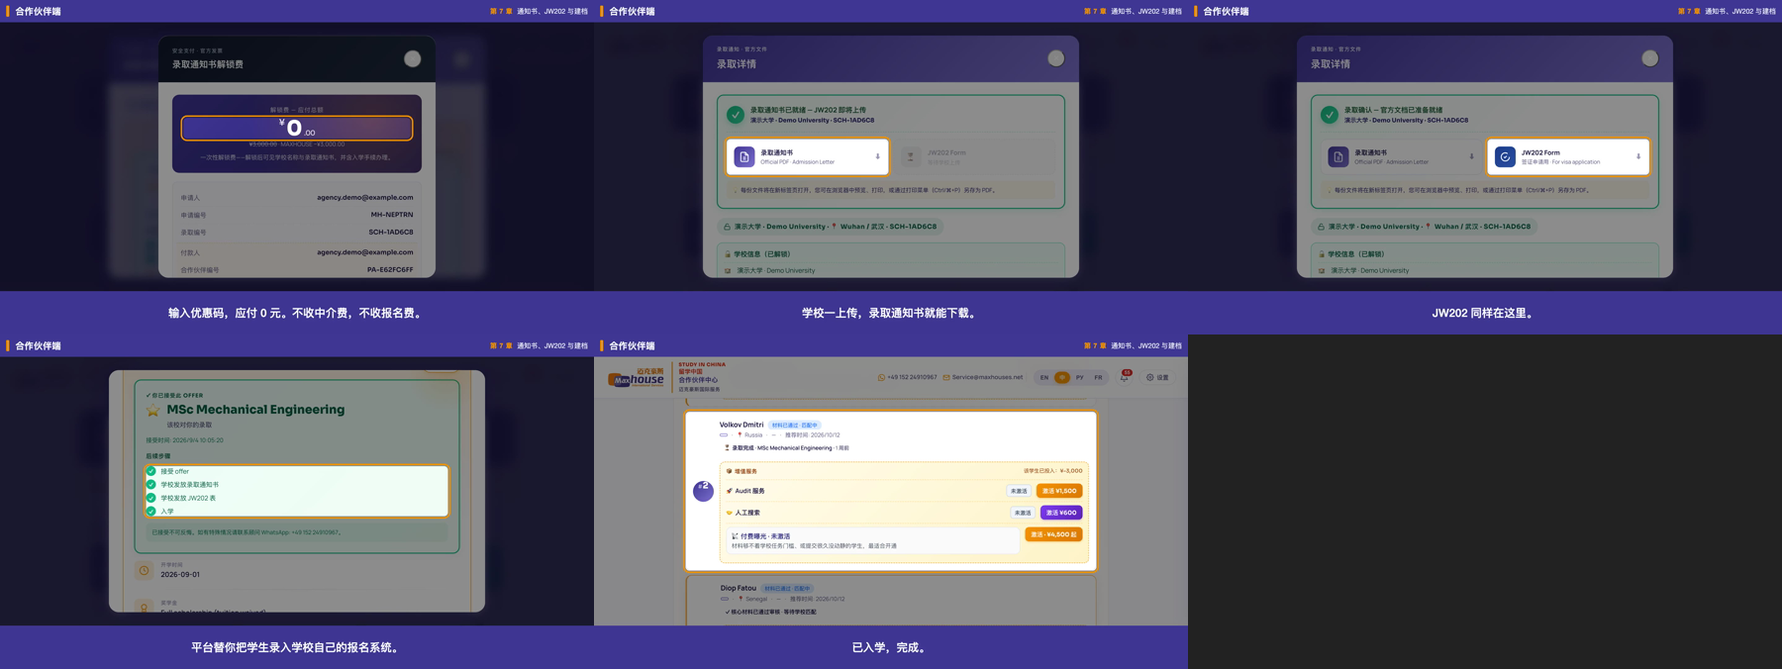
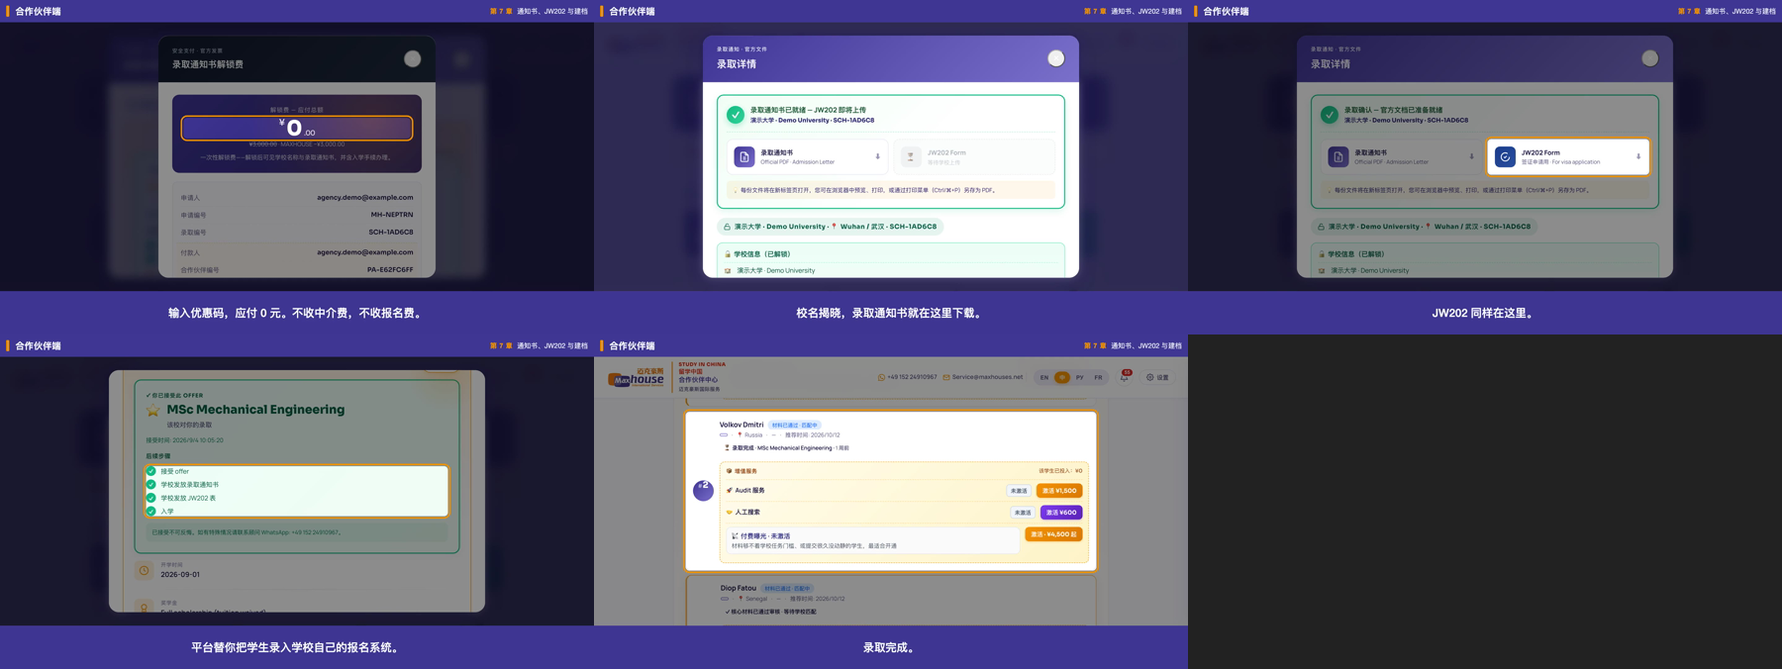
JOB-GP1 trip31: ch7 工作台章 v185 定版重录(review1 §二.3 7-1两段高亮 + §三.5 7-4字幕对账 + §一)。四语 ch7 联络表(land+port)+4 REVIEW(§十一对账)+决定账+PROGRESS。7-4 留业主已知产品问题:卡徽章 s.status 读废弃列 students.stage 恒NULL→对已入学生恒显蓝 matching(未改产品码,§三.5兜底)。verify 17/17 PASS。主仓库 b7a4ad4 未推。

Changed region(s): [[0.3111, 0.0311, 0.6844, 0.497], [0.4667, 0.963, 0.5289, 0.9941], [0.4044, 0.7145, 0.4356, 0.7456]]

diff --git a/JOB-GP1-03-PROGRESS.md b/JOB-GP1-03-PROGRESS.md
@@ -1,4 +1,18 @@
-最后一趟：2026-10-12 第30趟 返工：**做了**＝ch3 工作台章（state 章）v185 底座四语横竖定版重录，一并落 review1 §三.8（3-1/3-8 节奏）+§四（草稿残留复核）+§一（工作台 v185）。**§三.8 节奏＝录制层实现「后期剪掉等待的那几秒」**：rec.mjs 加 `preOff` 开关（把导航/加载/真提交放镜外 offCamera 跑、不计入字幕窗口帧，等结果落定才开录）。3-1 旧病＝点完按钮后镜尾 openWizard 切走、高亮环落向导空白处→删 3-1 openWizard、移到 3-2 offCamera pre（3-1 全窗口框按钮·亲验尾帧仍框按钮；3-2 开录即向导 step1 高亮 Semester）。3-8 旧病「app_no 落段尾」（trip12 记）→真 submit+等 app_no 全放 offCamera，开录 app_no 已在画面（亲验首帧 t0 即显 MH-xxxxxx）。**§四**＝每变体前后跑 st-ch3-cleanup 还原 pt-01 基线草稿（Ayesha Malik/step2）+真 submit 后即 st-ch3-mark-test 标 is_test；8 变体=8 次真 submit（cleanup-before-each 保配额恒 9→10 成功），verify #17 开工+收工 PASS。**§一**＝3-9 卡「Invested ¥0」无负数（缺陷1 销账）。8 片全 res OK+audio yes+no @gmail+9镜×8 hl 全 resolve。时长 land/port：EN60.23/60.25·ZH70.52/70.46·RU70.69/70.55·FR69.59/69.51s。亲验 en-land(3-1尾/3-2/3-8/3-9)+ru-land(3-5/3-8/3-9)原始帧：§三.8 三镜达标、¥0 无负数、AI 预检琥珀条四语本地化(产品渲染)、演示生 Demo Aisha 无真 PII、护照 DE1234567 样号、邮箱掩码、无 beta、页头平台 WhatsApp/Email 不遮。ch3 开工+收工 verify **17/17 PASS 0 FAIL**，baseline 守住（scoped 复位，无全量 rebuild）。v1 成片在 _v1/ 留底、dist 覆盖 v2。**全片 bookend/film/trailer 本趟不重拼**（待全部工作台章完后统一拼）。主仓库点名提交 JOB-GP1 不推；四语 ch3 联络表(land+port)+4 REVIEW+决定账+PROGRESS 推 mh-jobs。**下趟**＝下一含工作台章定版重录（ch7 7-4/ch8 横幅/ch5 5-1·5-4 两态/ch10/OP-3·4·5 快剪），一趟一章；全部完后四语过十一项重审+重拼全片→写 SUMMARY-GP1。**GP-1 未收官，勿据旧『收官』停工。**
+最后一趟：2026-10-12 第31趟 返工：**做了**＝ch7 工作台章（state 章·最复杂章）v185 四语横竖定版重录，一并落 review1 §二.3 + §三.5 + §一。**§二.3（7-1 两段高亮）**：给 rec.mjs follow() 加 `hl2`（前半 dwell 框 hl、后半切 hl2），7-1 先框真揭晓校名条 `.admission-id-tag--unlocked`（🔓 Demo University·演示大学·Wuhan/武汉·SCH-1AD6C8）、再框下载钮 `.admission-doc-btn-letter`——完成 trip21 明文「待 ch7 一并做」的两段高亮；7-1 字幕/配音 trip21 已改，本趟只改高亮。亲验 en-land phase1(f00032)/phase2(f00037) 原始帧达标，8 录屏 7-1 hl+hl2 全 resolve。**§三.5（7-4 字幕对账）**：读源实证病根＝卡徽章 `s.status=r.stage||'pending'`(L7311) 读废弃列 students.stage（恒 NULL，与缺陷2/漏斗同根）→ 恒 pending、gate_open 覆盖成蓝「Documents approved·matching」，产品**从不在列表卡徽章真显 enrolled**（已知产品问题，trip28 已记、留 SUMMARY）；但卡**状态行** `.partner-student-issue`（源 cloudTl.completed）稳定真显「⏳ Admission complete」＝review1 §三.5 观察——走 §三.5 兜底，7-4 字幕由「Enrolled. Done.」改**与状态行逐字一致**：en「Admission complete.」/ zh「录取完成。」/ ru「Зачисление завершено.」/ fr「Admission terminée.」，四语重配音。亲验四语 7-4 真帧：产品**真本地化**渲染状态行、与字幕**逐字对账**（ru/fr 非英文回退）。未改产品码。**§一**：7-4 卡「Invested ¥0」无负数（v185，缺陷1 销账）。state 章安全闸：先空跑状态往返证复位可靠（dirty→reset→verify 17/17）；每片前 st-pt07-pay-cleanup（每片 7-0 真付 ¥0 写 letter_paid_at）+ 末 st-pt0708-reset-cleanup。8 片全 res OK+audio yes+no @gmail+5 镜 hl 全 resolve（7-1 含 hl2）。时长 land en44.66/zh44.00/ru43.29/fr43.60·port en43.29/zh43.24/ru43.23/fr43.52s。开工+收工 verify **17/17 PASS 0 FAIL**，baseline 守住（scoped 复位）。ch7 v1 早在 _v1/ 留底、dist 覆盖 v2。**全片不重拼**（待全部工作台章完后统一拼）。主仓库点名提交 JOB-GP1（b7a4ad4）不推；四语 ch7 联络表(land+port)+4 REVIEW+决定账+PROGRESS 推 mh-jobs。**下趟**＝下一含工作台章定版重录（ch8 §三.7 横幅 scoped 撤待审提额 / ch5 5-1+5-4 两态 / ch9 v185 背景重录 / ch10 / OP-3·4·5 开场快剪），一趟一章；全部完后四语过十一项重审+重拼全片→写 SUMMARY-GP1。**GP-1 未收官，勿据旧『收官』停工。**
+
+# 第 31 趟（2026-10-12 Mac mini 无人值守）· ch7 工作台章定版重录 v185（review1 §二.3 + §三.5 + §一）
+- **接手核对**：git status + 读齐 PROGRESS/loop-tail/RULING-b-review1/-c-rework/-d-funnel/-e-v185-live/DECISIONS/storyboard/QUEUE。trip30 ch3 已定版，下趟＝ch7。开工即改首行「返工进行中」，开工 verify **17/17 PASS**。
+- **选题**：ch7 压着三处未结 review1 项——§二.3（7-1 两段高亮，trip21 明文待 ch7）+ §三.5（7-4 字幕 undone）+ §一（7-4 漏斗 v185）。
+- **取证（只读探针，不写库）**：`_probe-ch7-dom.mjs`（揭晓校名条/下载钮选择器）、`_probe-ch7-74-stable.mjs`（7-4 卡稳定态真显 ⏳ Admission complete）、`_probe-ch7-74-txt/langs.mjs`（四语卡文本）。读 partner v185 源定病根（L7311 s.status 读 students.stage 恒 NULL；L6641 gate_open 覆盖）。
+- **改法**：见首行 + D-31-1。§二.3 rec.mjs +hl2；§三.5 字幕四语改 + 重配音（未改产品码，走兜底）。
+- **录制闭环**：安全闸空跑往返 → st-pt08-jw202(一次) + 每片前 st-pt07-pay-cleanup → 录 8 → 末 st-pt0708-reset-cleanup → 收工 verify 17/17。
+- **自验**：8 片 res/audio/no-@gmail/hl(含 hl2) 全过；亲验 en-land 全 5 镜 + zh/ru/fr 联络表 + ru/fr 7-4 真帧（四语状态行逐字对账）；§十一对账四语写 REVIEW-*-shots.md。
+- **DB**：开工+收工 verify **17/17 PASS 0 FAIL**，零残留。
+- **改了**（主仓库，点名 JOB-GP1 b7a4ad4，不推）：rec/rec.mjs(+hl2)、rec/shots-v1.json(7-1 hl/hl2、7-4 cap)、captions-v1.json(7-4 四语)、rec/_probe-ch7-*.mjs(4 新)、REVIEW-{en,zh,ru,fr}-shots.md、DECISIONS.md。voice/7-4 四语重配、成片不入 git；ch7 v1 在 _v1/、dist 覆盖 v2。四语 ch7 联络表+4 REVIEW+决定账+PROGRESS 推 mh-jobs。
+- **留业主（已知产品问题，入 SUMMARY）**：中介端推荐生列表卡**徽章**对已入学生恒显蓝「Documents approved · matching」——根因 `s.status = r.stage || 'pending'`（partner v185 L7311）读废弃列 students.stage（全库恒 NULL，与缺陷2 漏斗同根）；真实中介对已付/已入学生也看到此矛盾徽章。卡状态行（cloudTl.completed）另算、真显「Admission complete」正确。本趟未改产品码（review1 §三.5 兜底不改码）。
+- **下趟**：ch8/ch5/ch9/ch10/OP-3·4·5，一趟一章；全部完后十一项重审+重拼全片→写 SUMMARY-GP1。GP-1 未收官。
+
+【上一趟（第30趟）首行存档】最后一趟：2026-10-12 第30趟 返工：**做了**＝ch3 工作台章（state 章）v185 底座四语横竖定版重录，一并落 review1 §三.8（3-1/3-8 节奏）+§四（草稿残留复核）+§一（工作台 v185）。**§三.8 节奏＝录制层实现「后期剪掉等待的那几秒」**：rec.mjs 加 `preOff` 开关（把导航/加载/真提交放镜外 offCamera 跑、不计入字幕窗口帧，等结果落定才开录）。3-1 旧病＝点完按钮后镜尾 openWizard 切走、高亮环落向导空白处→删 3-1 openWizard、移到 3-2 offCamera pre（3-1 全窗口框按钮·亲验尾帧仍框按钮；3-2 开录即向导 step1 高亮 Semester）。3-8 旧病「app_no 落段尾」（trip12 记）→真 submit+等 app_no 全放 offCamera，开录 app_no 已在画面（亲验首帧 t0 即显 MH-xxxxxx）。**§四**＝每变体前后跑 st-ch3-cleanup 还原 pt-01 基线草稿（Ayesha Malik/step2）+真 submit 后即 st-ch3-mark-test 标 is_test；8 变体=8 次真 submit（cleanup-before-each 保配额恒 9→10 成功），verify #17 开工+收工 PASS。**§一**＝3-9 卡「Invested ¥0」无负数（缺陷1 销账）。8 片全 res OK+audio yes+no @gmail+9镜×8 hl 全 resolve。时长 land/port：EN60.23/60.25·ZH70.52/70.46·RU70.69/70.55·FR69.59/69.51s。亲验 en-land(3-1尾/3-2/3-8/3-9)+ru-land(3-5/3-8/3-9)原始帧：§三.8 三镜达标、¥0 无负数、AI 预检琥珀条四语本地化(产品渲染)、演示生 Demo Aisha 无真 PII、护照 DE1234567 样号、邮箱掩码、无 beta、页头平台 WhatsApp/Email 不遮。ch3 开工+收工 verify **17/17 PASS 0 FAIL**，baseline 守住（scoped 复位，无全量 rebuild）。v1 成片在 _v1/ 留底、dist 覆盖 v2。**全片 bookend/film/trailer 本趟不重拼**（待全部工作台章完后统一拼）。主仓库点名提交 JOB-GP1 不推；四语 ch3 联络表(land+port)+4 REVIEW+决定账+PROGRESS 推 mh-jobs。**下趟**＝下一含工作台章定版重录（ch7 7-4/ch8 横幅/ch5 5-1·5-4 两态/ch10/OP-3·4·5 快剪），一趟一章；全部完后四语过十一项重审+重拼全片→写 SUMMARY-GP1。**GP-1 未收官，勿据旧『收官』停工。**
 
 ---
 # 第30趟详记：

diff --git a/JOB-GP1-decisions.md b/JOB-GP1-decisions.md
@@ -561,3 +561,19 @@
 - **改了**（主仓库，点名 JOB-GP1，不推）：rec/rec.mjs（+preOff）、rec/shots-v1.json（3-1 去 openWizard/收 expect、3-2 +preOff/pre/waitFor、3-8 +preOff）、REVIEW-{en,zh,ru,fr}-shots.md、DECISIONS.md。成片/voice 不入 git；ch3 v1 早在 _v1/ 留底，dist 覆盖 v2。四语 ch3 联络表+4 REVIEW+决定账+PROGRESS 推 mh-jobs。
 - **全片不重拼**：bookend/film/trailer 待全部工作台章定版重录完后统一拼。
 - **下趟**：下一含工作台章定版重录——ch7（7-4 §三.5：字幕「Enrolled. Done.」vs 卡徽章，需第一节修后产品能否真显已入学，否则字幕最小改）/ ch8（§三.7 横幅：8-1 已显「Quota raise pending 10→30」与 8-2/8-3 叙事矛盾，录前 scoped 撤待审提额、录后复位 verify#13）/ ch5（5-1 工作台 + 5-4 两态，需 st-pt03-reupload 两态分录）/ ch10 / OP-3·4·5 开场快剪（3-8/7-0/7-1 素材现已不阻塞）。一趟一章；全部完后四语十一项重审+重拼全片→写 SUMMARY-GP1。**GP-1 未收官。**
+
+## D-31-1（返工第31趟 2026-10-12）· ch7 工作台章（state 章·最复杂章）v185 定版重录 · review1 §二.3 + §三.5 + §一
+- **章 / 镜**：第 7 章（pt-07 Nilufar ¥0 真付→通知书 / pt-08 Abena JW202 / pt-09 Dmitri 建档入学），7-0..7-4，四语横竖（8 片）。state 章：7-0 真付（coupon_agent_pay_offer 写 letter_paid_at+unlocked_at+1 条 coupon_redemption）；复位 scoped（st-pt0708-reset-cleanup，D-16-7 先例；本机 faces 缺口禁全量 rebuild）。
+- **选题**：按 trip30「下趟」与 review1 §八「§三节字幕镜」顺序挑 ch7——它压着三处未结的 review1 项：§二.3（7-1 两段高亮，trip21 已落字幕/配音但明文「待 ch7 一并做」）+ §三.5（7-4 字幕 undone）+ §一（7-4 工作台漏斗 v185 背景）。
+- **§二.3（7-1 先框揭晓校名条、再框下载钮）做法**：只读探针 `_probe-ch7-dom.mjs`（用已付的 pt-09 探揭晓结构，与 pt-07 真付后同款产品渲染）实证：揭晓校名条 = `.admission-id-tag--unlocked`（"Demo University · 📍 Wuhan/武汉 · SCH-1AD6C8"，`--unlocked` 修饰仅付费揭晓后出现）、下载钮 = `.admission-doc-btn-letter`。给 rec.mjs follow() 加 `hl2` 两段高亮（前半 dwell 框 hl、切 hl2 后半 dwell；CSS 选择器语言无关），7-1 设 hl=`.admission-id-tag--unlocked` + hl2=`.admission-doc-btn-letter`。7-1 字幕/配音 trip21 已改（"The university is revealed — download the admission letter here." 等四语），本趟只改高亮 + 录制。亲验 en-land 原始帧：phase1(f00032) 橙环框「🔓 Demo University·演示大学·Wuhan/武汉·SCH-1AD6C8」校名条、phase2(f00037) 橙环框「Admission Letter · Official PDF · 录取通知书」下载钮。8 录屏 7-1 hl+hl2 **全 resolve**。
+- **§三.5（7-4「Enrolled. Done.」字幕↔画面对账）病根**：读 partner v185 源——卡状态 `s.status = r.stage || 'pending'`（L7311）读**废弃列 students.stage**（全库零写入恒 NULL，与缺陷2/D-27-1 漏斗同根），故推荐生卡 `s.status` 恒 pending/reviewing → `_p131StatusLabel`（L6641）gate_open 覆盖成「Documents approved · matching」（蓝药丸）；产品**从不在列表卡徽章真显 enrolled**（真实中介对已入学生也看到此矛盾蓝徽章＝已知产品问题，trip28 已记留 SUMMARY）。但卡**状态行**（`.partner-student-issue`，源 `cloudTl.completed`）**稳定真显**「⏳ Admission complete · MSc Mechanical Engineering · 1w ago」（登录+全异步落定后；探针 `_probe-ch7-74-stable.mjs` 实证）＝ review1 §三.5 观察的「状态行是 Admission complete」。→ 走 review1 §三.5 兜底「否则字幕最小改成画面真有的表述」：7-4 字幕由「Enrolled. Done.」改**与卡状态行逐字一致**的「Admission complete.」，四语重配音。
+  - 四语**逐字对账（亲验 7-4 真帧 DOM）**：en「Admission complete.」=「⏳ Admission complete」✓ / zh「录取完成。」=「⏳ 录取完成」✓ / ru「Зачисление завершено.」=「⏳ Зачисление завершено」✓（产品真本地化渲染，非英文回退）/ fr「Admission terminée.」=「⏳ Admission terminée」✓。四语字幕=屏上状态行**原文逐字**。
+  - **未动产品码**（§三.5 兜底不改码、不伪造）；卡徽章蓝「matching」矛盾＝已知产品问题，不是本趟引入，留 SUMMARY。7-4 高亮保持整卡 `#gp1-74-card`（整卡含真「Admission complete」状态行）。
+- **§一（7-4 工作台漏斗 v185 背景）**：rec.mjs 底座已 v185（trip28）+ offCamera 等 offers≥5 && gate_open≥6；7-4 卡「Invested on this student: ¥0」无负数（缺陷1 销账）。
+- **录制闭环（state 章安全闸）**：先空跑状态往返（dirty pt-08 jw202 → st-pt0708-reset-cleanup → verify **17/17**）证复位可靠；然后 st-pt08-jw202（一次，供 7-2）+ 每片前 st-pt07-pay-cleanup（pt-07 回未付，因每片 7-0 真付 pt-07）→ 录 8 片 → 末 st-pt0708-reset-cleanup → 收工 verify **17/17 PASS 0 FAIL**。
+- **自验**：8 片全 res OK+audio yes+5 镜、全 DOM 扫描 **no @gmail**、8 录屏 5 镜 hl 全 resolve（7-1 含 hl2）；亲验 en-land 全帧（7-0 ¥0 橙框+¥3,000 删除线+MAXHOUSE、7-1 两段、7-4 Admission complete）+ zh/ru/fr 联络表与 ru/fr 7-4 真帧（四语状态行逐字对账）；页头平台 WhatsApp/Email 不遮（D-14-3/§七）、ru/fr 章节条左标签 Partner Hub（D-18-4/RULING-c §3）。§十一对账四语写入 REVIEW-*-shots.md。
+- **时长**：land en44.66/zh44.00/ru43.29/fr43.60 · port en43.29/zh43.24/ru43.23/fr43.52s。
+- **DB**：开工+收工 verify **17/17 PASS 0 FAIL**，baseline 全程守住（scoped 复位）。
+- **改了**（主仓库，点名 JOB-GP1，不推）：rec/rec.mjs（+hl2 两段高亮）、rec/shots-v1.json（7-1 hl→校名条+hl2 下载钮、7-4 capEN/capZH→Admission complete/录取完成）、captions-v1.json（7-4 四语）、rec/_probe-ch7-dom.mjs / _probe-ch7-74-langs.mjs / _probe-ch7-74-txt.mjs / _probe-ch7-74-stable.mjs（新·只读探针）、REVIEW-{en,zh,ru,fr}-shots.md、DECISIONS.md。voice/7-4 四语重配（不入 git）；ch7 v1 早在 _v1/ 留底，dist 覆盖 v2。四语 ch7 联络表+4 REVIEW+决定账+PROGRESS 推 mh-jobs。
+- **全片不重拼**：bookend/film/trailer 待全部工作台章定版重录完后统一拼。
+- **下趟**：下一含工作台章定版重录——ch8（§三.7 横幅 scoped 撤待审提额）/ ch5（5-1 工作台 + 5-4 两态）/ ch9（9-2/9-3 已改·需 v185 背景重录）/ ch10 / OP-3·4·5 开场快剪。一趟一章；全部完后四语十一项重审+重拼全片→写 SUMMARY-GP1。**GP-1 未收官。**

diff --git a/JOB-GP1-REVIEW-en-shots.md b/JOB-GP1-REVIEW-en-shots.md
@@ -109,3 +109,21 @@
 - 时长：land 60.23s / port 60.25s（9 镜）。8 片（四语横竖）全 res OK + audio yes。全片 DOM 扫描 **no @gmail**；8 录屏 9 镜 hl 全 resolve、零 MISS。
 - 逐张亲眼复验（EN land 联络表 + 3-1尾/3-2首中/3-8首中/3-9中 原始帧）：3-1 全程框按钮无空白环、3-2 开录即向导、3-8 app_no 全窗口在画面（§三.8 达标）；3-9「Invested ¥0」无负数（§一.3/缺陷1 销账）；注册演示生 Demo Aisha 无真 PII、护照 DE1234567 样号、邮箱掩码 agency.demo@example.com；无 beta/内测/test 控件；页头平台 WhatsApp/Email 不遮（D-14-3/D-15-1）。
 - 记账：真 submit（submit_referral）仅 insert students、不发邮件/站内通知（trip20 实证）；每变体真码不同（录后 scoped 删）；收工 verify 17/17 PASS、draft 回基线。
+
+## ch7 §二.3（7-1 两段高亮）+ §三.5（7-4 字幕对账）+ §一（工作台 v185，返工第31趟 2026-10-12 · 定版重录）
+前置：ch7 是 state 章（7-0 真付 ¥0 写 letter_paid_at）。v185 底座四语横竖定版重录。处理 review1 三处：
+- **§二.3（7-1）**：高亮改两段（rec.mjs 新增 `hl2`）——先框真揭晓校名条 `.admission-id-tag--unlocked`，再框下载钮 `.admission-doc-btn-letter`。7-1 字幕/配音 trip21 已改，本趟只改高亮。
+- **§三.5（7-4）**：病根＝卡徽章 `s.status` 读废弃列 students.stage（恒 NULL，与漏斗同根）→ 恒 pending、gate_open 覆盖成蓝「Documents approved · matching」，产品从不在卡徽章真显 enrolled（已知产品问题，留 SUMMARY）。但卡**状态行**（`.partner-student-issue`，源 cloudTl.completed）稳定真显「⏳ Admission complete」。→ 走 review1 §三.5 兜底，字幕由「Enrolled. Done.」改**与状态行逐字一致**的「Admission complete.」。
+- **§一**：7-4 卡「Invested on this student: ¥0」无负数（v185）。
+
+| 镜 | 字幕原文 | 高亮区 DOM 实际文字（从 v185 真帧 DOM 读） | 同一件事？ |
+|----|----------|---------------------|-----------|
+| 7-0 | Enter the coupon code — ¥0. No agency fee, no application fee. | `.payment-amount-value`「¥0.00」（UNLOCK FEE — TOTAL DUE；下方 ¥3,000.00 删除线 · MAXHOUSE −¥3,000.00） | 是 |
+| 7-1 | The university is revealed — download the admission letter here. | 两段：①`.admission-id-tag--unlocked`「🔓 Demo University · 演示大学 · 📍 Wuhan / 武汉 · SCH-1AD6C8」(揭晓校名条) ②`.admission-doc-btn-letter`「Admission Letter · Official PDF · 录取通知书 ⬇」(下载钮) | 是（§二.3 两段先校名后下载） |
+| 7-2 | The JW202 follows the same way. | `.admission-doc-btn-jw`「JW202 Form · 签证申请用 · For visa application ⬇」 | 是 |
+| 7-3 | The platform files the student into the university's own enrolment system for you. | `.offer-progress`「✓ Accept offer · ✓ School issues admission letter · ✓ School issues JW202 · ✓ Enrolled」(建档进度条含 ✓入学) | 是 |
+| 7-4 | Admission complete. | `#gp1-74-card` 内状态行「⏳ Admission complete · MSc Mechanical Engineering · 1w ago」（整卡高亮；卡「Invested on this student: ¥0」无负数） | 是（字幕=状态行逐字） |
+
+- 时长：land 44.66s / port 43.29s（5 镜）。8 片（四语横竖）全 res OK + audio yes。全片 DOM 扫描 **no @gmail**；8 录屏 5 镜 hl 全 resolve（7-1 含 hl2），零 MISS。
+- 逐张亲眼复验（EN land 全 5 镜原始帧）：7-0 ¥0.00 橙框 + ¥3,000 删除线 + MAXHOUSE（邮箱掩码 agency.demo@example.com、app id MH-NEPTRN）；7-1 phase1 框校名条、phase2 框下载钮（§二.3 达标）；7-4 状态行「⏳ Admission complete」= 字幕逐字、「Invested ¥0」无负数（§一/缺陷1 销账）；无 beta/内测/test 控件；页头平台 WhatsApp/Email 不遮（D-14-3/D-15-1）。
+- 记账（留业主·已知产品问题）：7-4 卡**徽章**「Documents approved · matching」（蓝 pending）对已入学生恒显矛盾——根因 `s.status = r.stage||'pending'`（L7311）读废弃列 students.stage（恒 NULL），非本趟引入，未改产品码（§三.5 兜底），留 SUMMARY。收工 verify 17/17 PASS，baseline 守住。

diff --git a/JOB-GP1-REVIEW-ru-shots.md b/JOB-GP1-REVIEW-ru-shots.md
@@ -71,3 +71,17 @@ D-18-4：RU 界面里产品动态串回退成英文（PREMIUM SERVICES / Audit S
 | 3-9 | С этого момента студент закреплён за вами. | `.partner-student-status-pending`「Ожидает」（基线生卡；同卡「Вложено в студента: ¥0」无负数·亲验） | 是 |
 
 - 时长：land 70.69s / port 70.55s（9 镜）。横竖 2 片 res OK + audio yes，no @gmail，9 镜 hl 全 resolve。亲验（ru-land 3-5/3-8/3-9 原始帧）：3-8 app_no 全窗口、3-9 ¥0 无负数、3-5 琥珀 RU 条、演示生无真 PII、无 beta、页头不遮。
+
+## ch7 §二.3（7-1 两段高亮）+ §三.5（7-4 字幕对账）+ §一（工作台 v185，返工第31趟 2026-10-12 · 定版重录）
+前置：ch7 state 章，v185 定版重录。§二.3＝7-1 两段高亮（先 `.admission-id-tag--unlocked` 揭晓校名条、再 `.admission-doc-btn-letter` 下载钮）；§三.5＝7-4 字幕由「Зачислен. Готово.」改成与卡状态行逐字一致的「Зачисление завершено.」。亲验 ru-land 7-4 真帧：产品**真本地化**渲染状态行「⏳ Зачисление завершено」（非英文回退），与字幕逐字一致；卡徽章蓝「Документы одобрены · подбор」＝已知产品问题（留 SUMMARY）。
+
+| 镜 | 字幕原文 | 高亮区 DOM 实际文字（从 v185 真帧 DOM 读） | 同一件事？ |
+|----|----------|---------------------|-----------|
+| 7-0 | Введите промокод — ¥0. Без платы агентству, без регистрационного сбора. | `.payment-amount-value`「¥0.00」（应付总额；下方 ¥3,000.00 删除线 · MAXHOUSE −¥3,000.00） | 是 |
+| 7-1 | Название вуза раскрыто — скачайте письмо о зачислении здесь. | 两段：①`.admission-id-tag--unlocked`「🔓 Demo University · 演示大学 · 📍 Wuhan / 武汉 · SCH-1AD6C8」②`.admission-doc-btn-letter`「录取通知书 · Official PDF ⬇」 | 是（两段先校名后下载） |
+| 7-2 | Форма JW202 — таким же образом. | `.admission-doc-btn-jw`「JW202 Form · For visa application ⬇」 | 是 |
+| 7-3 | Платформа сама заносит студента в систему регистрации вуза за вас. | `.offer-progress` 建档进度条「✓ Accept offer · ✓ admission letter · ✓ JW202 · ✓ Enrolled」 | 是 |
+| 7-4 | Зачисление завершено. | `#gp1-74-card` 内状态行「⏳ Зачисление завершено · MSc Mechanical Engineering · 1w ago」（整卡高亮；卡「Вложено в студента: ¥0」无负数） | 是（字幕=状态行逐字） |
+
+- 时长：land 43.293401s / port 43.234512s（5 镜）。横竖 2 片 res OK + audio yes，no @gmail，5 镜 hl 全 resolve（7-1 含 hl2）。章节条左标签 Partner Hub（D-18-4/RULING-c §3）；页头平台 WhatsApp/Email 不遮。
+- 记账（留业主·已知产品问题）：7-4 卡徽章「Документы одобрены · подбор」对已入学生恒显矛盾（根因 students.stage 恒 NULL），未改产品码（§三.5 兜底），留 SUMMARY。

diff --git a/JOB-GP1-REVIEW-fr-shots.md b/JOB-GP1-REVIEW-fr-shots.md
@@ -71,3 +71,17 @@ D-18-4：FR 界面里产品动态串回退成英文（PREMIUM SERVICES / Audit S
 | 3-9 | Désormais, cet étudiant vous est rattaché. | `.partner-student-status-pending`（pending 标签，基线生卡；同卡 Invested ¥0 无负数） | 是 |
 
 - 时长：land 69.59s / port 69.51s（9 镜）。横竖 2 片 res OK + audio yes，no @gmail，9 镜 hl 全 resolve。亲验同 EN/RU：3-8 app_no 全窗口、3-9 ¥0 无负数、演示生无真 PII、无 beta、页头不遮。
+
+## ch7 §二.3（7-1 两段高亮）+ §三.5（7-4 字幕对账）+ §一（工作台 v185，返工第31趟 2026-10-12 · 定版重录）
+前置：ch7 state 章，v185 定版重录。§二.3＝7-1 两段高亮（先 `.admission-id-tag--unlocked` 揭晓校名条、再 `.admission-doc-btn-letter` 下载钮）；§三.5＝7-4 字幕由「Inscrit. Terminé.」改成与卡状态行逐字一致的「Admission terminée.」。亲验 fr-land 7-4 真帧：产品**真本地化**渲染状态行「⏳ Admission terminée」（非英文回退），与字幕逐字一致；卡徽章蓝「Documents validés · mise en relation」＝已知产品问题（留 SUMMARY）。
+
+| 镜 | 字幕原文 | 高亮区 DOM 实际文字（从 v185 真帧 DOM 读） | 同一件事？ |
+|----|----------|---------------------|-----------|
+| 7-0 | Saisissez le code promo — ¥0. Pas de frais d'agence, pas de frais de dossier. | `.payment-amount-value`「¥0.00」（应付总额；下方 ¥3,000.00 删除线 · MAXHOUSE −¥3,000.00） | 是 |
+| 7-1 | L'université est révélée — téléchargez la lettre d'admission ici. | 两段：①`.admission-id-tag--unlocked`「🔓 Demo University · 演示大学 · 📍 Wuhan / 武汉 · SCH-1AD6C8」②`.admission-doc-btn-letter`「录取通知书 · Official PDF ⬇」 | 是（两段先校名后下载） |
+| 7-2 | Le JW202 se télécharge de la même façon. | `.admission-doc-btn-jw`「JW202 Form · For visa application ⬇」 | 是 |
+| 7-3 | La plateforme inscrit l'étudiant dans le système d'inscription de l'université à votre place. | `.offer-progress` 建档进度条「✓ Accept offer · ✓ admission letter · ✓ JW202 · ✓ Enrolled」 | 是 |
+| 7-4 | Admission terminée. | `#gp1-74-card` 内状态行「⏳ Admission terminée · MSc Mechanical Engineering · 1w ago」（整卡高亮；卡「Investi pour cet étudiant : ¥0」无负数） | 是（字幕=状态行逐字） |
+
+- 时长：land 43.596644s / port 43.518685s（5 镜）。横竖 2 片 res OK + audio yes，no @gmail，5 镜 hl 全 resolve（7-1 含 hl2）。章节条左标签 Partner Hub（D-18-4/RULING-c §3）；页头平台 WhatsApp/Email 不遮。
+- 记账（留业主·已知产品问题）：7-4 卡徽章「Documents validés · mise en relation」对已入学生恒显矛盾（根因 students.stage 恒 NULL），未改产品码（§三.5 兜底），留 SUMMARY。

diff --git a/JOB-GP1-REVIEW-zh-shots.md b/JOB-GP1-REVIEW-zh-shots.md
@@ -80,3 +80,17 @@
 | 3-9 | 从现在起，这名学生与你绑定。 | `.partner-student-status-pending`「已提交·等待平台审核」（基线生卡；同卡「Invested ¥0」无负数） | 是 |
 
 - 时长：land 70.52s / port 70.46s（9 镜）。横竖 2 片 res OK + audio yes，no @gmail，9 镜 hl 全 resolve。亲验同 EN：3-1 全程框按钮、3-8 app_no 全窗口、3-9 ¥0 无负数、演示生无真 PII、无 beta、页头平台 WhatsApp/Email 不遮。
+
+## ch7 §二.3（7-1 两段高亮）+ §三.5（7-4 字幕对账）+ §一（工作台 v185，返工第31趟 2026-10-12 · 定版重录）
+前置：ch7 是 state 章（7-0 真付 ¥0）。v185 底座定版重录。§二.3＝7-1 高亮改两段（先框揭晓校名条 `.admission-id-tag--unlocked`、再框下载钮）；§三.5＝7-4 字幕由「已入学，完成。」改成与卡状态行逐字一致的「录取完成。」（卡状态行 `.partner-student-issue` 稳定真显「⏳ 录取完成」；卡徽章蓝「材料已通过·匹配中」＝已知产品问题，根因 s.status 读废弃列 students.stage 恒 NULL，留 SUMMARY）。
+
+| 镜 | 字幕原文 | 高亮区 DOM 实际文字（从 v185 真帧 DOM 读） | 同一件事？ |
+|----|----------|---------------------|-----------|
+| 7-0 | 输入优惠码，应付 0 元。不收中介费，不收报名费。 | `.payment-amount-value`「¥0.00」（应付总额；下方 ¥3,000.00 删除线 · MAXHOUSE −¥3,000.00） | 是 |
+| 7-1 | 校名揭晓，录取通知书就在这里下载。 | 两段：①`.admission-id-tag--unlocked`「🔓 演示大学 · Demo University · 📍 Wuhan / 武汉 · SCH-1AD6C8」(揭晓校名条) ②`.admission-doc-btn-letter`「录取通知书 · Official PDF ⬇」(下载钮) | 是（两段先校名后下载） |
+| 7-2 | JW202 同样在这里。 | `.admission-doc-btn-jw`「JW202 Form · 签证申请用 ⬇」 | 是 |
+| 7-3 | 平台替你把学生录入学校自己的报名系统。 | `.offer-progress`「✓接受 offer · ✓学校发放录取通知书 · ✓学校发放 JW202 表 · ✓入学」(建档进度条) | 是 |
+| 7-4 | 录取完成。 | `#gp1-74-card` 内状态行「⏳ 录取完成 · MSc Mechanical Engineering · 1w ago」（整卡高亮；卡「Invested ¥0」无负数） | 是（字幕=状态行逐字） |
+
+- 时长：land 43.997846s / port 43.244172s（5 镜）。横竖 2 片 res OK + audio yes，no @gmail，5 镜 hl 全 resolve（7-1 含 hl2）。亲验 zh-land 联络表：7-0 ¥0 橙框、7-1 校名条揭晓、7-4 状态行「录取完成」= 字幕逐字、「Invested ¥0」无负数、页头平台 WhatsApp/Email 不遮。
+- 记账（留业主·已知产品问题）：7-4 卡徽章「材料已通过·匹配中」对已入学生恒显矛盾（根因 students.stage 恒 NULL），未改产品码（§三.5 兜底），留 SUMMARY。
